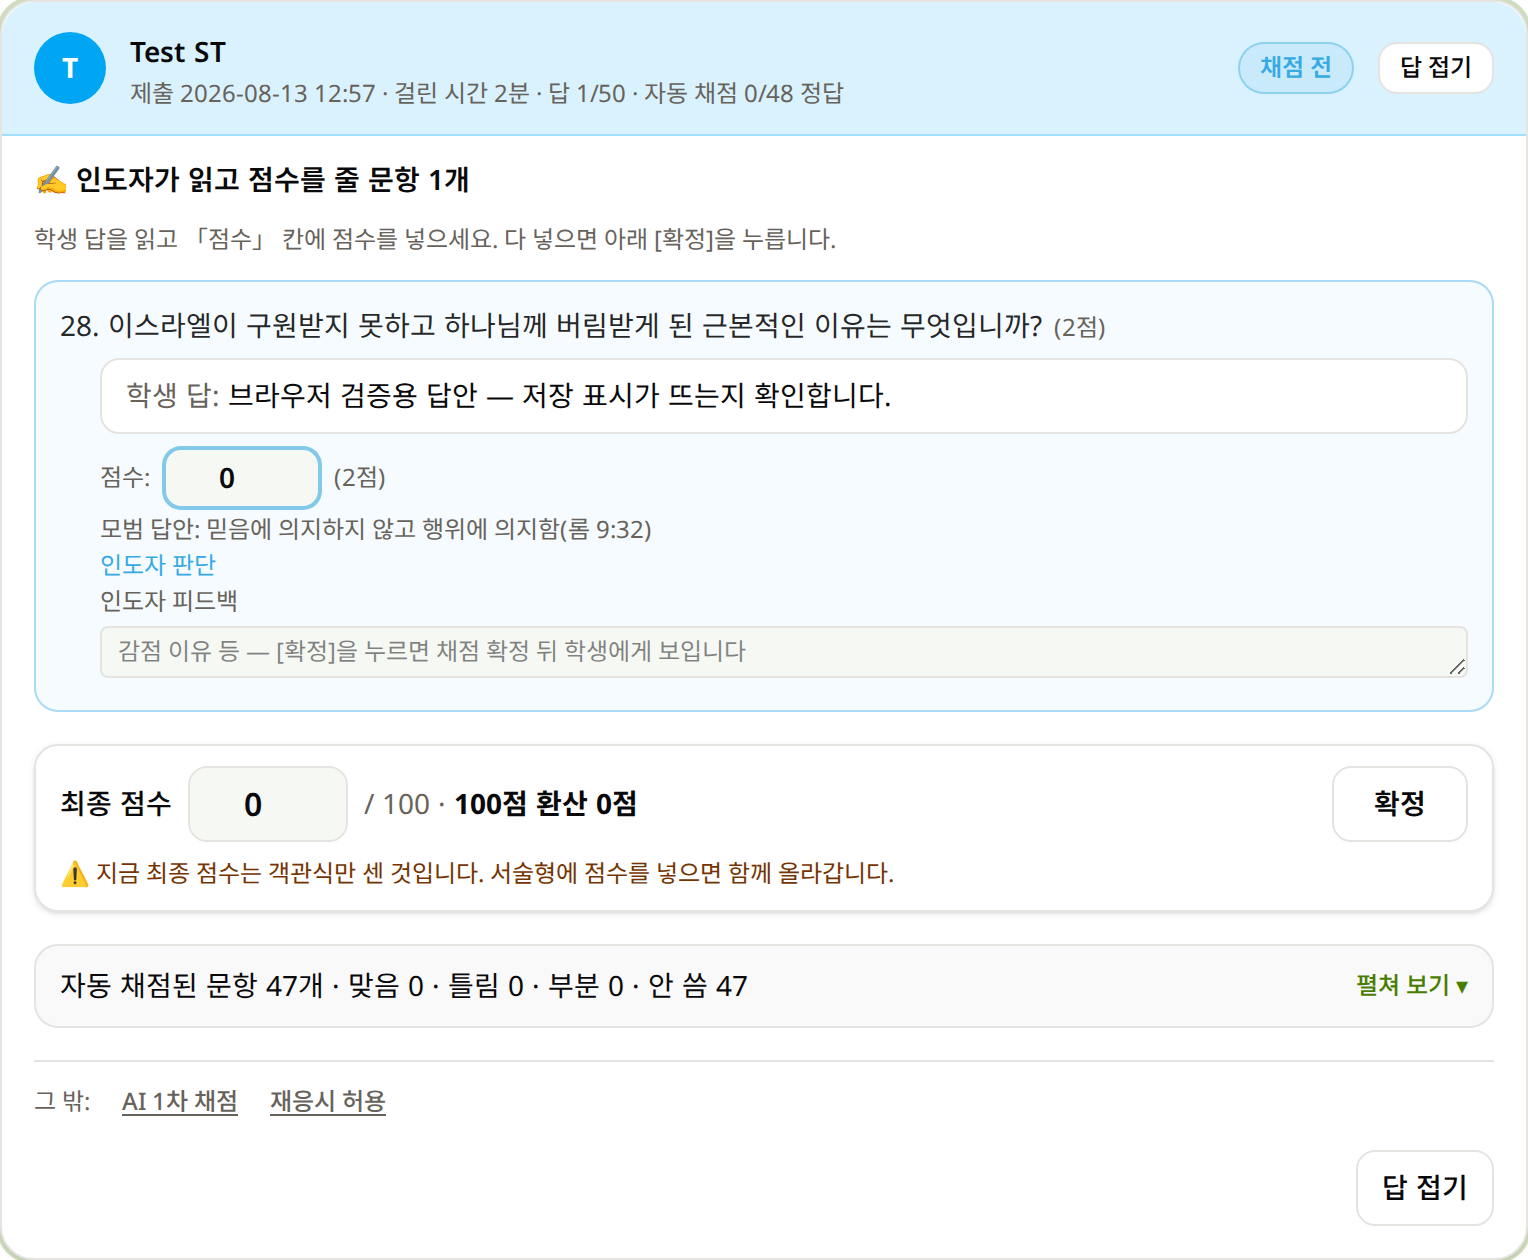
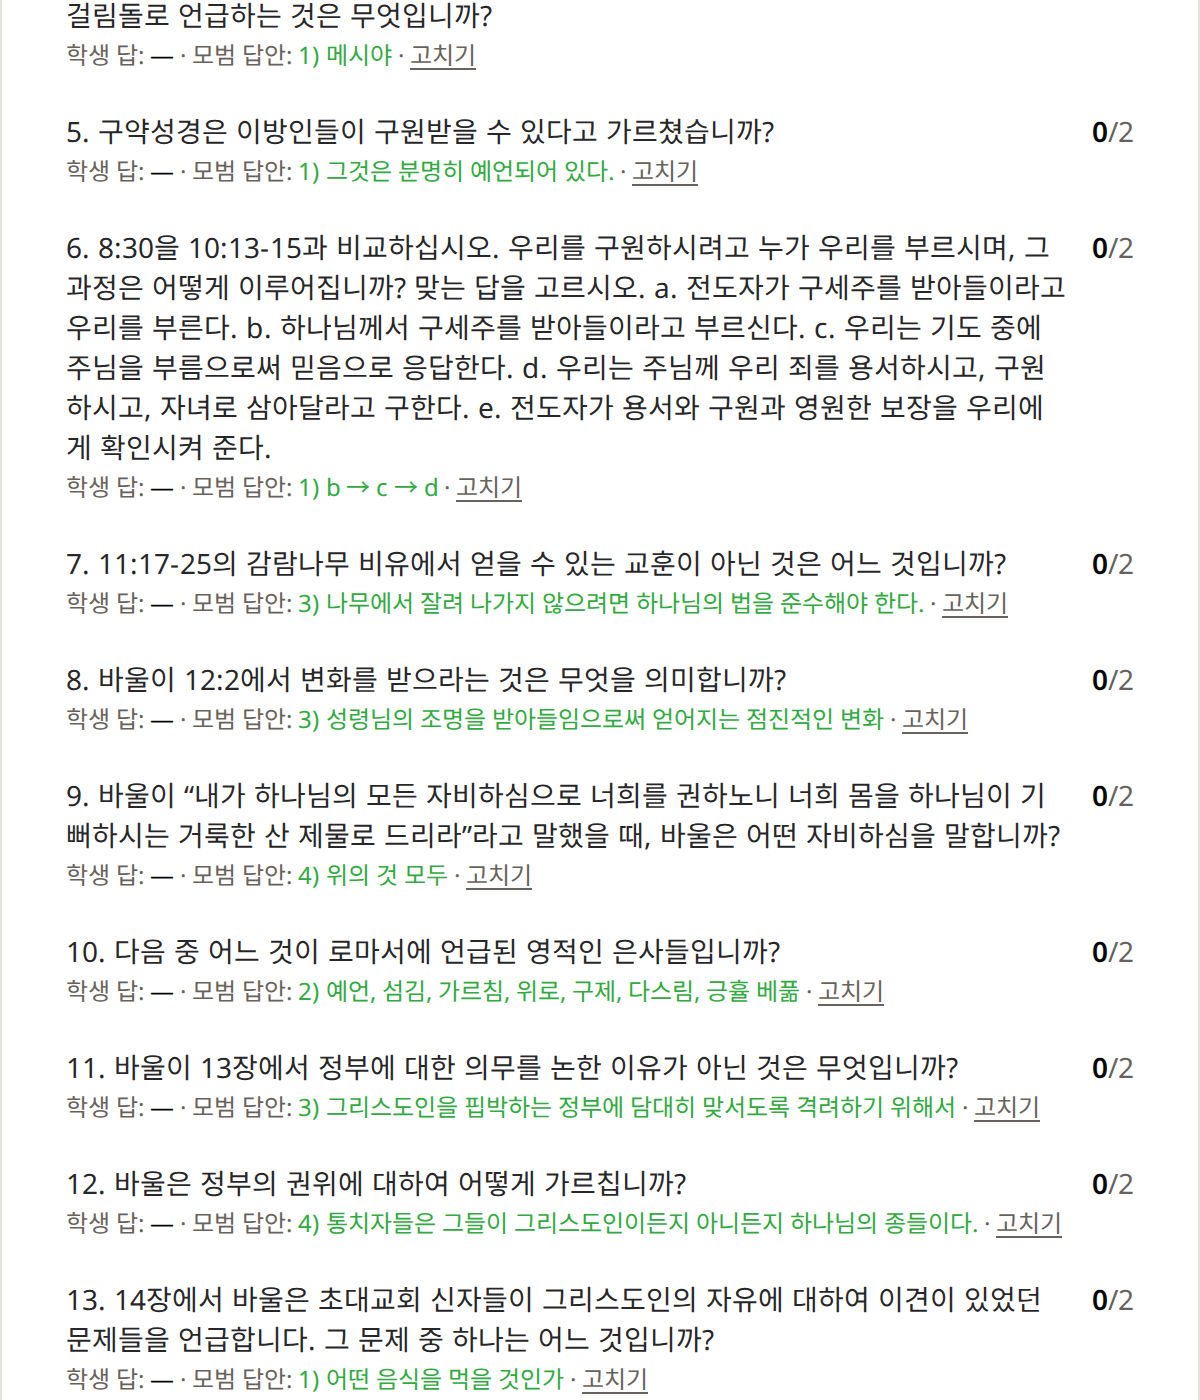
시험 안내: 채점 화면 = 왼쪽 학생 목록 + 오른쪽 한 사람 답안 · 확정하고 다음 학생 · 자동 채점 두 줄 · AI 버튼 서술형 옆 (MM 11/25 반영, 사진 2장 다시)

diff --git a/lms/exam-guide.html b/lms/exam-guide.html
@@ -304,7 +304,7 @@
       </li>
       <li id="retake">
         <span class="sym">학생이 실수로 일찍 제출함</span>
-        <span class="do">「채점하기」 화면의 그 학생 카드를 펼친 뒤 맨 아래 「그 밖:」 → <span class="btn">재응시 허용</span></span>
+        <span class="do">「채점하기」 화면 목록에서 그 학생 → 답안 맨 아래 「그 밖:」 → <span class="btn">재응시 허용</span></span>
       </li>
       <li id="cancel">
         <span class="sym">시험을 잘못 열었음</span>
@@ -313,7 +313,7 @@
       <li id="auto-ended">
         <span class="sym">학생 시험이 저절로 끝났음</span>
         <span class="why">시험 화면을 <strong>5분 넘게 떠나면</strong>(다른 앱 · 화면 꺼짐 · 전화 포함) 그때까지 쓴 답으로 자동 종료됩니다.</span>
-        <span class="do">채점 카드에 <span class="screen">다 못 풂</span>이 붙어 있으면 그 카드의 <span class="btn btn-go">이어서 풀게 하기</span> (같은 답 그대로 · 채점 전에만). 다 풀고 나간 학생이면 <span class="btn">이대로 채점하기</span></span>
+        <span class="do">채점 화면 목록에 <span class="screen">다 못 풂</span>이 붙은 학생 → 답안 맨 위 <span class="btn btn-go">이어서 풀게 하기</span> (같은 답 그대로 · 채점 전에만). 다 풀고 나간 학생이면 그대로 아래에서 채점</span>
       </li>
       <li id="penalty">
         <span class="sym">점수에서 감점이 빠져 있음</span>
@@ -440,40 +440,40 @@
 
     <p>
       제출한 학생이 생기면 그 회차에 <span class="btn btn-go">채점하기</span>가 나옵니다(<strong>새 창</strong> — Ministry Manager 채점 화면이 열립니다).
-      학생마다 <strong>색이 다른 카드</strong>가 하나씩 있고, 카드마다 <strong>할 일 한 줄과 큰 버튼 하나</strong>가 있습니다. 그 버튼만 누르면 됩니다.
-      객관식은 <strong>자동으로 미리 채점</strong>되어 있습니다.
+      <strong>왼쪽에 학생 목록, 오른쪽에 고른 학생 한 사람의 답안</strong>이 나옵니다(폰은 목록 → 이름을 누르면 답안 화면).
+      처음 열면 <strong>채점할 첫 학생</strong>이 골라져 있습니다. 객관식은 <strong>자동으로 미리 채점</strong>되어 있습니다.
     </p>
 
     <figure>
-      <img src="assets/exam-ft-grading.png" alt="채점 화면 — 학생마다 색이 다른 카드. 오른쪽 위 상태(채점 전·멈춤 4일), 「① 서술형 1문항에 점수 주기 → ② 확정」 안내와 서술형 1문항 채점하기 버튼, 탭 이탈 1회">
+      <img src="assets/exam-ft-grading.png" alt="채점 화면 — 위에 학생 2명 요약, 왼쪽 학생 목록(상태 점·이름·채점 전·멈춤 4일), 오른쪽 Test ST 답안: 인도자가 읽고 점수를 줄 문항 1개와 AI 1차 채점 버튼, 28번 서술형 학생 답·점수 칸, 최종 점수와 확정하고 다음 학생 버튼, 자동 채점된 문항 47개 접힘">
       <figcaption>
-        카드 오른쪽 위의 <strong>상태</strong>가 할 일을 말합니다 —
-        <span class="screen">채점 전</span>(→ <span class="btn btn-go">서술형 N문항 채점하기</span>) ·
-        <span class="screen">다 못 풂</span>(다 풀지 않았는데 자동 종료 → <span class="btn btn-go">이어서 풀게 하기</span>) ·
-        <span class="screen">멈춤 N일</span>(며칠째 제출이 없음 → 학생에게 이어서 풀고 [제출]하라고 알림) ·
-        <span class="screen">응시 중</span> · <span class="screen">✅ 확정</span>.
-        <strong>탭 이탈</strong>(시험 중 다른 화면으로 나간 횟수·시간)도 카드에 보입니다.
-        <span class="ex">(맨 아래 노란 카드는 인도자 자신의 연습 답안입니다.)</span>
+        맨 위 줄이 <strong>몇 명 남았는지</strong>를 말합니다. 목록의 점 색 = 상태 —
+        <span class="screen">채점 전</span>(하늘) · <span class="screen">다 못 풂</span>·<span class="screen">멈춤 N일</span>(노랑) · <span class="screen">✅ 확정</span>(초록).
+        <span class="ex">(맨 아래 「연습」은 인도자 자신의 연습 답안입니다.)</span>
       </figcaption>
     </figure>
 
     <p>
-      <span class="btn btn-go">서술형 N문항 채점하기</span>를 누르면 그 학생 답안이 펼쳐지는데, <strong>인도자가 읽고 점수를 줄 서술형만 맨 위에</strong> 나옵니다.
-      학생 답을 읽고 <strong>「점수」 칸</strong>에 점수를 넣으면 바로 아래 <strong>최종 점수</strong>에 더해집니다. 다 넣으면 <span class="btn btn-go">확정</span>.
+      오른쪽 답안은 위에서부터 할 일 순서입니다 —
+      <strong>① 인도자가 읽고 점수를 줄 서술형</strong>(학생 답을 읽고 <strong>「점수」 칸</strong>에 점수. 옆의 <span class="btn">🤖 AI 1차 채점</span>은 참고용 제안) →
+      <strong>② 최종 점수 확인</strong> → <span class="btn btn-go">확정하고 다음 학생 ›</span>. 누르면 <strong>다음 채점할 학생 답안이 바로</strong> 나옵니다.
       피드백 칸에 쓴 글은 [확정] 뒤에 학생에게 보입니다.
-      이미 자동 채점된 객관식은 「자동 채점된 문항 N개」 한 줄로 접혀 있고, <span class="btn">펼쳐 보기</span>로 볼 수 있습니다(정답 <strong>초록 ★</strong>).
+    </p>
+    <p>
+      이미 자동 채점된 객관식은 「자동 채점된 문항 N개 · 맞음 · 틀림…」 한 줄로 접혀 있습니다. <span class="btn">펼쳐 보기</span>를 누르면 문항마다 <strong>두 줄</strong>(문항·점수 / 학생 답 ✓✗·정답)로 보이고,
+      <strong>틀린 문항은 연한 빨간 바탕</strong>입니다. 점수를 바꾸거나 피드백을 쓰려면 그 줄의 <span class="btn">고치기</span>.
     </p>
 
     <figure>
-      <img src="assets/exam-ft-answers.png" alt="펼친 채점 카드 — 맨 위 「인도자가 읽고 점수를 줄 문항 1개」에 28번 서술형, 학생 답, 점수 칸, 모범 답안, 피드백 칸. 그 아래 최종 점수와 확정 버튼, 자동 채점된 문항 47개 접힘, 그 밖: AI 1차 채점·재응시 허용">
-      <figcaption>펼친 카드 — <strong>① 서술형 점수</strong> → <strong>② 최종 점수 확인 · [확정]</strong>. 답안을 아래로 내려도 <strong>이름 줄이 위에 붙어</strong> 누구 답안인지 늘 보입니다.</figcaption>
+      <img src="assets/exam-ft-answers.png" alt="자동 채점된 문항을 펼친 모습 — 문항마다 두 줄: 문항 글과 오른쪽 점수 0/2, 아래 학생 답·모범 답안·고치기">
+      <figcaption>펼친 자동 채점 문항 — 한 문항 두 줄. <strong>모범 답안</strong>은 학생이 틀렸거나 안 썼을 때만 보입니다.</figcaption>
     </figure>
 
     <ul>
       <li><strong>시간 초과 감점</strong> — 「채점 점수 − 감점 = 최종」이 나란히 보입니다. 줄이려면 사유를 적습니다(학생에게도 보임). 규칙보다 더 깎을 수는 없습니다.</li>
-      <li><strong>이어서 풀게 하기</strong> — 5분 자리 비움으로 자동 종료된 학생에게만, 채점 전에. 쓴 답 그대로 이어서 풉니다. <span class="screen">다 못 풂</span> 카드에서는 큰 버튼, 그 밖에는 펼친 카드 맨 아래 「그 밖:」에 있습니다.</li>
-      <li><strong>AI 1차 채점</strong>(펼친 카드 맨 아래 「그 밖:」) — 서술형 점수를 AI 가 미리 매겨 줍니다. 참고용이고, <strong>최종 점수는 언제나 인도자가 확정합니다.</strong></li>
-      <li><strong>재응시 허용</strong>(펼친 카드 맨 아래 「그 밖:」) — 학생이 실수로 일찍 제출했으면 다시 볼 수 있게 열어 줍니다.</li>
+      <li><strong>이어서 풀게 하기</strong> — 5분 자리 비움으로 자동 종료된 학생에게만, 채점 전에. 쓴 답 그대로 이어서 풉니다. <span class="screen">다 못 풂</span>이면 답안 맨 위에 큰 버튼으로 나옵니다.</li>
+      <li><strong>AI 1차 채점</strong>(서술형 제목 옆 🤖) — 서술형 점수를 AI 가 미리 매겨 줍니다. 참고용이고, <strong>최종 점수는 언제나 인도자가 확정합니다.</strong></li>
+      <li><strong>재응시 허용</strong>(답안 맨 아래 「그 밖:」) — 학생이 실수로 일찍 제출했으면 다시 볼 수 있게 열어 줍니다.</li>
     </ul>
   </section>
 
